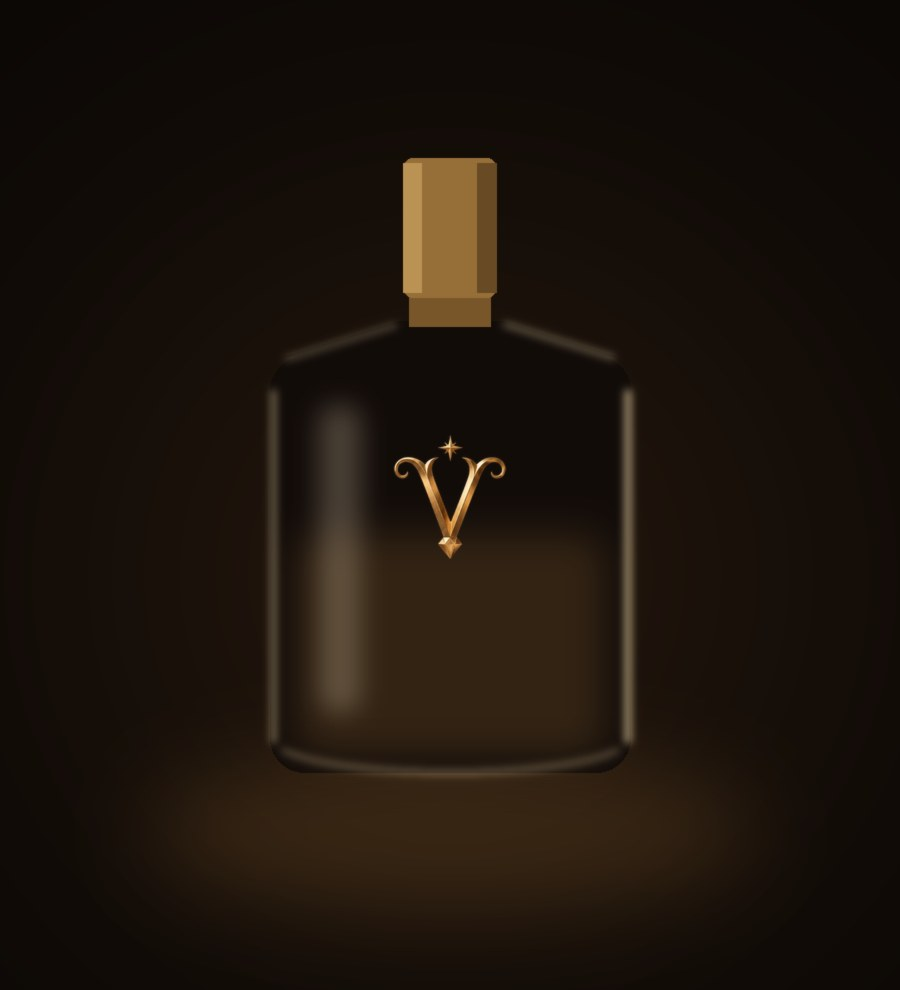
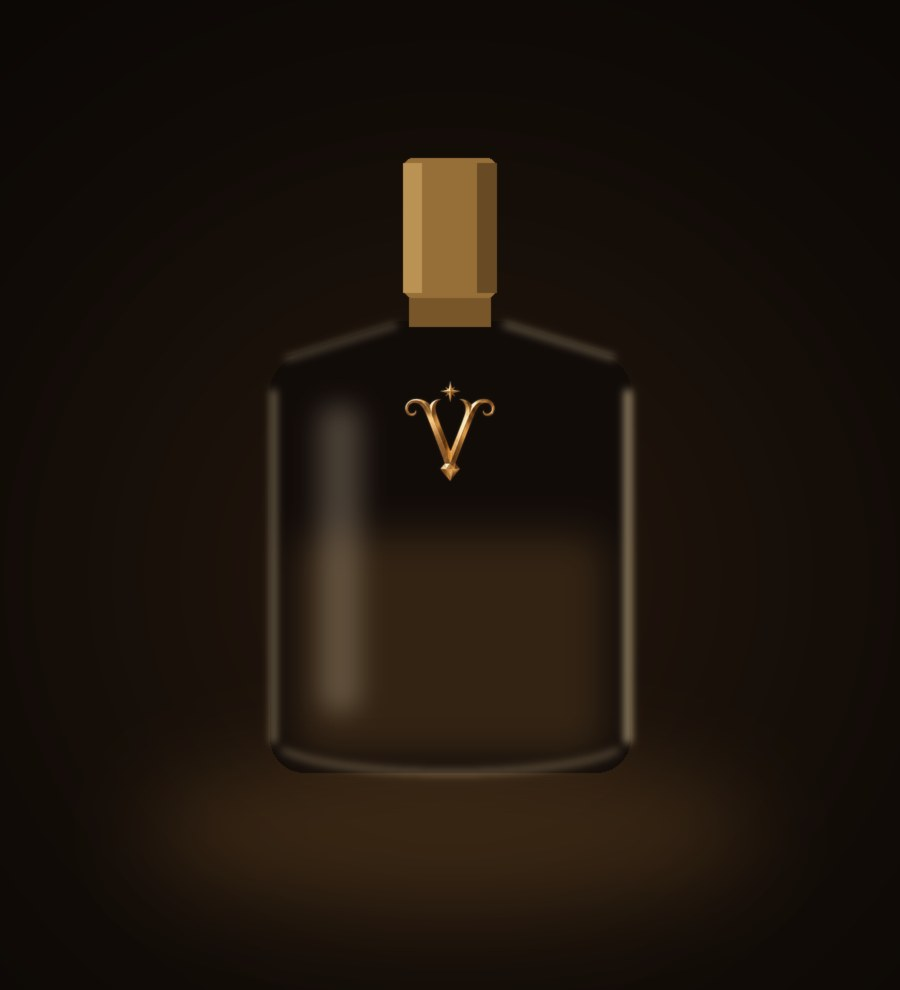
Perfume teaser: V emblem raised above the overlay eyebrow zone (reviewer fix)

Changed region(s): [[0.4356, 0.3939, 0.56, 0.5758]]

diff --git a/js/webflow-render.js b/js/webflow-render.js
@@ -2,7 +2,7 @@
    edit index.html / coming-soon.html / js/script.js / js/door-module.js
    then run  python3 build-webflow-bundle.py) */
 (function(){
-var BUILD_T = 1783626615;
+var BUILD_T = 1783626846;
 
 /* run-once guard: if this same-or-newer bundle already executed (e.g. an
    old script tag left in Webflow footer code + the new head loader), the